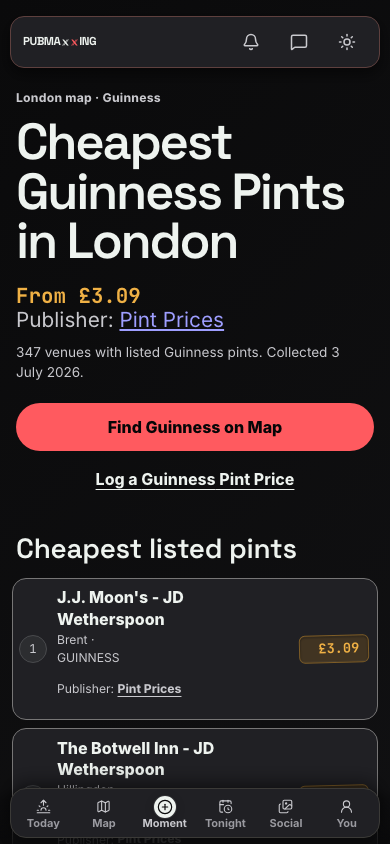
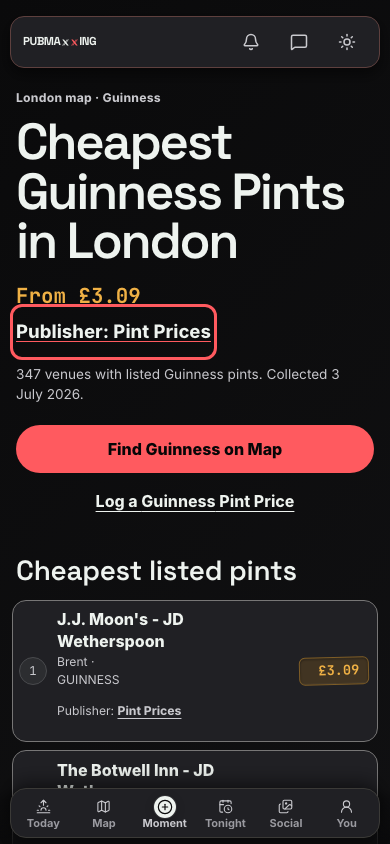
refactor: share drink publisher status

Changed region(s): [[0.0, 0.3389, 0.9846, 0.9242], [0.7692, 0.7393, 0.9538, 0.8318], [0.0615, 0.7701, 0.0923, 0.8009]]

diff --git a/e2e/drink-brand-landing.spec.ts b/e2e/drink-brand-landing.spec.ts
@@ -109,6 +109,33 @@ async function expectVisibleFocus(locator: Locator, label: string): Promise<void
   expect(focusStyle.outlineWidth, `${label} should show a visible focus outline`).not.toBe("0px");
 }
 
+async function expectHeroPublisherLink(page: Page): Promise<void> {
+  const status = page.locator(".drinkBrandLanding__fromPublisher");
+  await expect(status).toHaveText("Publisher: Pint Prices");
+
+  const link = status.getByRole("link", {
+    name: "Publisher: Pint Prices",
+    exact: true,
+  });
+  await expect(link).toHaveAttribute(
+    "href",
+    /^https:\/\/www\.pint-prices\.com\/pub\//,
+  );
+  await expectTouchTarget(link, "hero publisher link");
+
+  const colours = await link.evaluate((element) => {
+    const heading = document.querySelector(".drinkBrandLanding h1");
+    return {
+      link: getComputedStyle(element).color,
+      ink: heading ? getComputedStyle(heading).color : "",
+    };
+  });
+  expect(colours.link, "hero publisher link should use the theme ink token").toBe(
+    colours.ink,
+  );
+  await expectVisibleFocus(link, "hero publisher link");
+}
+
 async function assertLandingContract(page: Page): Promise<void> {
   const response = await page.goto(`/drink/${BRAND_SLUG}`, { waitUntil: "domcontentloaded" });
   expect(response?.status()).toBe(200);
@@ -118,6 +145,7 @@ async function assertLandingContract(page: Page): Promise<void> {
 
   await expectAboveFold(page, page.locator(".drinkBrandLanding__from strong"), "From price");
   await expect(page.locator(".drinkBrandLanding__from strong")).toHaveText("From £3.09");
+  await expectHeroPublisherLink(page);
 
   const summary = page.locator(".drinkBrandLanding__summary");
   await expect(summary).toHaveText(SUMMARY);
@@ -207,6 +235,7 @@ for (const viewport of MOBILE_VIEWPORTS) {
           page.getByRole("heading", { level: 1, name: `Cheapest ${BRAND} Pints in London`, exact: true }),
         ).toBeVisible();
         await expect(page.locator("html")).toHaveAttribute("data-theme", "dark");
+        await expectHeroPublisherLink(page);
         await expectNoHorizontalOverflow(page);
         await page.screenshot({
           path: "docs/proof/drink-brand-landing/guinness-390-dark.png",

diff --git a/components/drinks/DrinkBrandLandingContent.tsx b/components/drinks/DrinkBrandLandingContent.tsx
@@ -2,7 +2,11 @@ import Link from "next/link";
 
 import PriceBadge from "@/components/PriceBadge";
 import { formatObservedDate } from "@/lib/dataFreshness";
-import type { DrinkBrandLanding, DrinkBrandLandingRow } from "@/lib/drinkBrandLanding";
+import {
+  type DrinkBrandLanding,
+  type DrinkBrandLandingRow,
+  formatDrinkBrandLandingPublisherStatus,
+} from "@/lib/drinkBrandLanding";
 import { formatPrice } from "@/lib/venues";
 
 function formatCollectedDate(iso: string): string {
@@ -44,6 +48,26 @@ function PublisherDisclosure({
   );
 }
 
+function HeroPublisherDisclosure({ row }: { row: DrinkBrandLandingRow }) {
+  const status = formatDrinkBrandLandingPublisherStatus(row.publisher);
+
+  return (
+    <span className="drinkBrandLanding__fromPublisher">
+      {row.publisher ? (
+        <a
+          href={row.publisher.url}
+          target="_blank"
+          rel="noopener noreferrer"
+        >
+          {status}
+        </a>
+      ) : (
+        status
+      )}
+    </span>
+  );
+}
+
 export default function DrinkBrandLandingContent({
   landing,
 }: {
@@ -62,11 +86,7 @@ export default function DrinkBrandLandingContent({
         <h1>Cheapest {landing.brandLabel} Pints in London</h1>
         <p className="drinkBrandLanding__from">
           <strong>From {lowestPrice}</strong>
-          <br />
-          <PublisherDisclosure
-            className="drinkBrandLanding__fromPublisher"
-            row={firstRow}
-          />
+          <HeroPublisherDisclosure row={firstRow} />
         </p>
         <p className="drinkBrandLanding__summary">
           {landing.totalPricedVenues} venues with listed {landing.brandLabel} pints. Collected{" "}

diff --git a/app/drink/[slug]/page.tsx b/app/drink/[slug]/page.tsx
@@ -5,6 +5,7 @@ import { notFound } from "next/navigation";
 import DrinkBrandLandingContent from "@/components/drinks/DrinkBrandLandingContent";
 import SiteNav from "@/components/nav/SiteNav";
 import JsonLd from "@/components/seo/JsonLd";
+import { formatDrinkBrandLandingPublisherStatus } from "@/lib/drinkBrandLanding";
 import {
   drinkBrandLandingJsonLd,
   loadDrinkBrandLanding,
@@ -36,10 +37,10 @@ export async function generateMetadata({ params }: PageProps): Promise<Metadata>
 
   const title = `Cheapest ${landing.brandLabel} Pints in London`;
   const firstRow = landing.rows[0];
-  const publisherStatus = firstRow.publisher
-    ? `Publisher: ${firstRow.publisher.label}.`
-    : "Publisher not recorded.";
-  const description = `${landing.totalPricedVenues} London venues with listed ${landing.brandLabel} pints from ${formatPrice(firstRow.priceGbp)}. ${publisherStatus}`;
+  const publisherStatus = formatDrinkBrandLandingPublisherStatus(
+    firstRow.publisher,
+  );
+  const description = `${landing.totalPricedVenues} London venues with listed ${landing.brandLabel} pints from ${formatPrice(firstRow.priceGbp)}. ${publisherStatus}.`;
   const canonical = `/drink/${encodeURIComponent(landing.slug)}`;
 
   return {

diff --git a/__tests__/drinkBrandLanding.test.ts b/__tests__/drinkBrandLanding.test.ts
@@ -11,6 +11,7 @@ import {
   type DrinkBrandLanding,
   type DrinkBrandLandingRow,
   buildDrinkBrandLanding,
+  formatDrinkBrandLandingPublisherStatus,
   listDrinkBrandLandings,
 } from "@/lib/drinkBrandLanding";
 import { PINT_DATASET_OBSERVED_AT } from "@/lib/dataFreshness";
@@ -141,6 +142,18 @@ describe("governed drink brand landings", () => {
     expectTypeOf<DrinkBrandLanding["rows"]>().toEqualTypeOf<
       [DrinkBrandLandingRow, ...DrinkBrandLandingRow[]]
     >();
+  });
+
+  it("formats one exact publisher status for named and missing rows", () => {
+    expect(
+      formatDrinkBrandLandingPublisherStatus({
+        label: "Pint Prices",
+        url: "https://www.pint-prices.com/pub/exact",
+      }),
+    ).toBe("Publisher: Pint Prices");
+    expect(formatDrinkBrandLandingPublisherStatus(null)).toBe(
+      "Publisher not recorded",
+    );
   });
 
   it("keeps only valid pub rows and binds one cheapest exact row per Venue", () => {

diff --git a/app/drink/[slug]/drink.css b/app/drink/[slug]/drink.css
@@ -52,6 +52,36 @@
   font-variant-numeric: tabular-nums;
 }
 
+.drinkBrandLanding__fromPublisher {
+  display: block;
+  margin-top: 2px;
+  color: var(--ink-soft);
+  font-family: var(--font-body);
+  font-size: var(--text-md);
+  font-weight: 500;
+  line-height: var(--leading-normal);
+}
+
+.drinkBrandLanding__fromPublisher a {
+  display: inline-flex;
+  align-items: center;
+  min-height: 44px;
+  color: var(--ink);
+  font-weight: 750;
+  text-decoration-color: var(--accent-action);
+  text-underline-offset: 3px;
+  touch-action: manipulation;
+}
+
+.drinkBrandLanding__fromPublisher a:hover {
+  color: var(--accent-action);
+}
+
+.drinkBrandLanding__fromPublisher a:focus-visible {
+  outline: 3px solid var(--accent-action);
+  outline-offset: 3px;
+}
+
 .drinkBrandLanding__summary {
   max-width: 55ch;
   margin: 10px 0 0;

diff --git a/app/drink/[slug]/opengraph-image.tsx b/app/drink/[slug]/opengraph-image.tsx
@@ -1,6 +1,7 @@
 import { ImageResponse } from "next/og";
 import { notFound } from "next/navigation";
 
+import { formatDrinkBrandLandingPublisherStatus } from "@/lib/drinkBrandLanding";
 import { loadDrinkBrandLanding } from "@/lib/drinkBrandLanding.server";
 import {
   CardShell,
@@ -31,9 +32,9 @@ export default async function Image({
   const firstRow = landing.rows[0];
   const cheapest = priceStamp(firstRow.priceGbp);
   const pricedVenueCount = landing.totalPricedVenues;
-  const publisherStatus = firstRow.publisher
-    ? `Publisher: ${firstRow.publisher.label}`
-    : "Publisher not recorded";
+  const publisherStatus = formatDrinkBrandLandingPublisherStatus(
+    firstRow.publisher,
+  );
   const route = `/drink/${encodeURIComponent(landing.slug)}`;
 
   return new ImageResponse(

diff --git a/__tests__/drinkBrandLandingPage.test.ts b/__tests__/drinkBrandLandingPage.test.ts
@@ -148,7 +148,13 @@ describe("governed drink brand landing page", () => {
 
     expect(html).toContain("From £3.09");
     expect(html).toContain('class="drinkBrandLanding__fromPublisher"');
+    expect(html).toContain(
+      '>Publisher: Exact Publisher</a>',
+    );
     expect(html.match(/href="https:\/\/publisher\.example\/price-1"/g)).toHaveLength(2);
+    expect(html).toMatch(
+      /class="drinkBrandLanding__publisher"><span>Publisher: <\/span><a href="https:\/\/publisher\.example\/price-1"[^>]*>Exact Publisher<\/a>/,
+    );
   });
 
   it("binds metadata to the canonical route and leaves unknown brands noindex", async () => {

diff --git a/lib/drinkBrandLanding.ts b/lib/drinkBrandLanding.ts
@@ -11,6 +11,14 @@ type DrinkBrandLandingPublisher = NonNullable<
   ReturnType<typeof namedLegacyPintPriceSource>
 >;
 
+export function formatDrinkBrandLandingPublisherStatus(
+  publisher: DrinkBrandLandingPublisher | null,
+): string {
+  return publisher
+    ? `Publisher: ${publisher.label}`
+    : "Publisher not recorded";
+}
+
 export type DrinkBrandLandingRow = {
   rank: number;
   venueId: string;

diff --git a/docs/proof/drink-brand-landing/README.md b/docs/proof/drink-brand-landing/README.md
@@ -14,8 +14,10 @@ hero price publisher, shared collection date, touch targets, page width, Map
 brand state, Back restoration, the explicit log picker, and the unknown-brand
 404. At 320, 390, and 430 pixels, every one of the 20 rank and price elements
 must be visible and horizontally inside the viewport. Focus proof covers the
-primary action, secondary action, Ledger row link, and publisher link; shared
-route CSS covers the remaining links of each repeated type.
+primary action, secondary action, Ledger row link, hero publisher link, and row
+publisher link; shared route CSS covers the remaining links of each repeated
+type. Light and dark proof also checks that the hero publisher link uses the
+active PUBMAXX ink token instead of browser link colours.
 
 Run the proof with:
 
